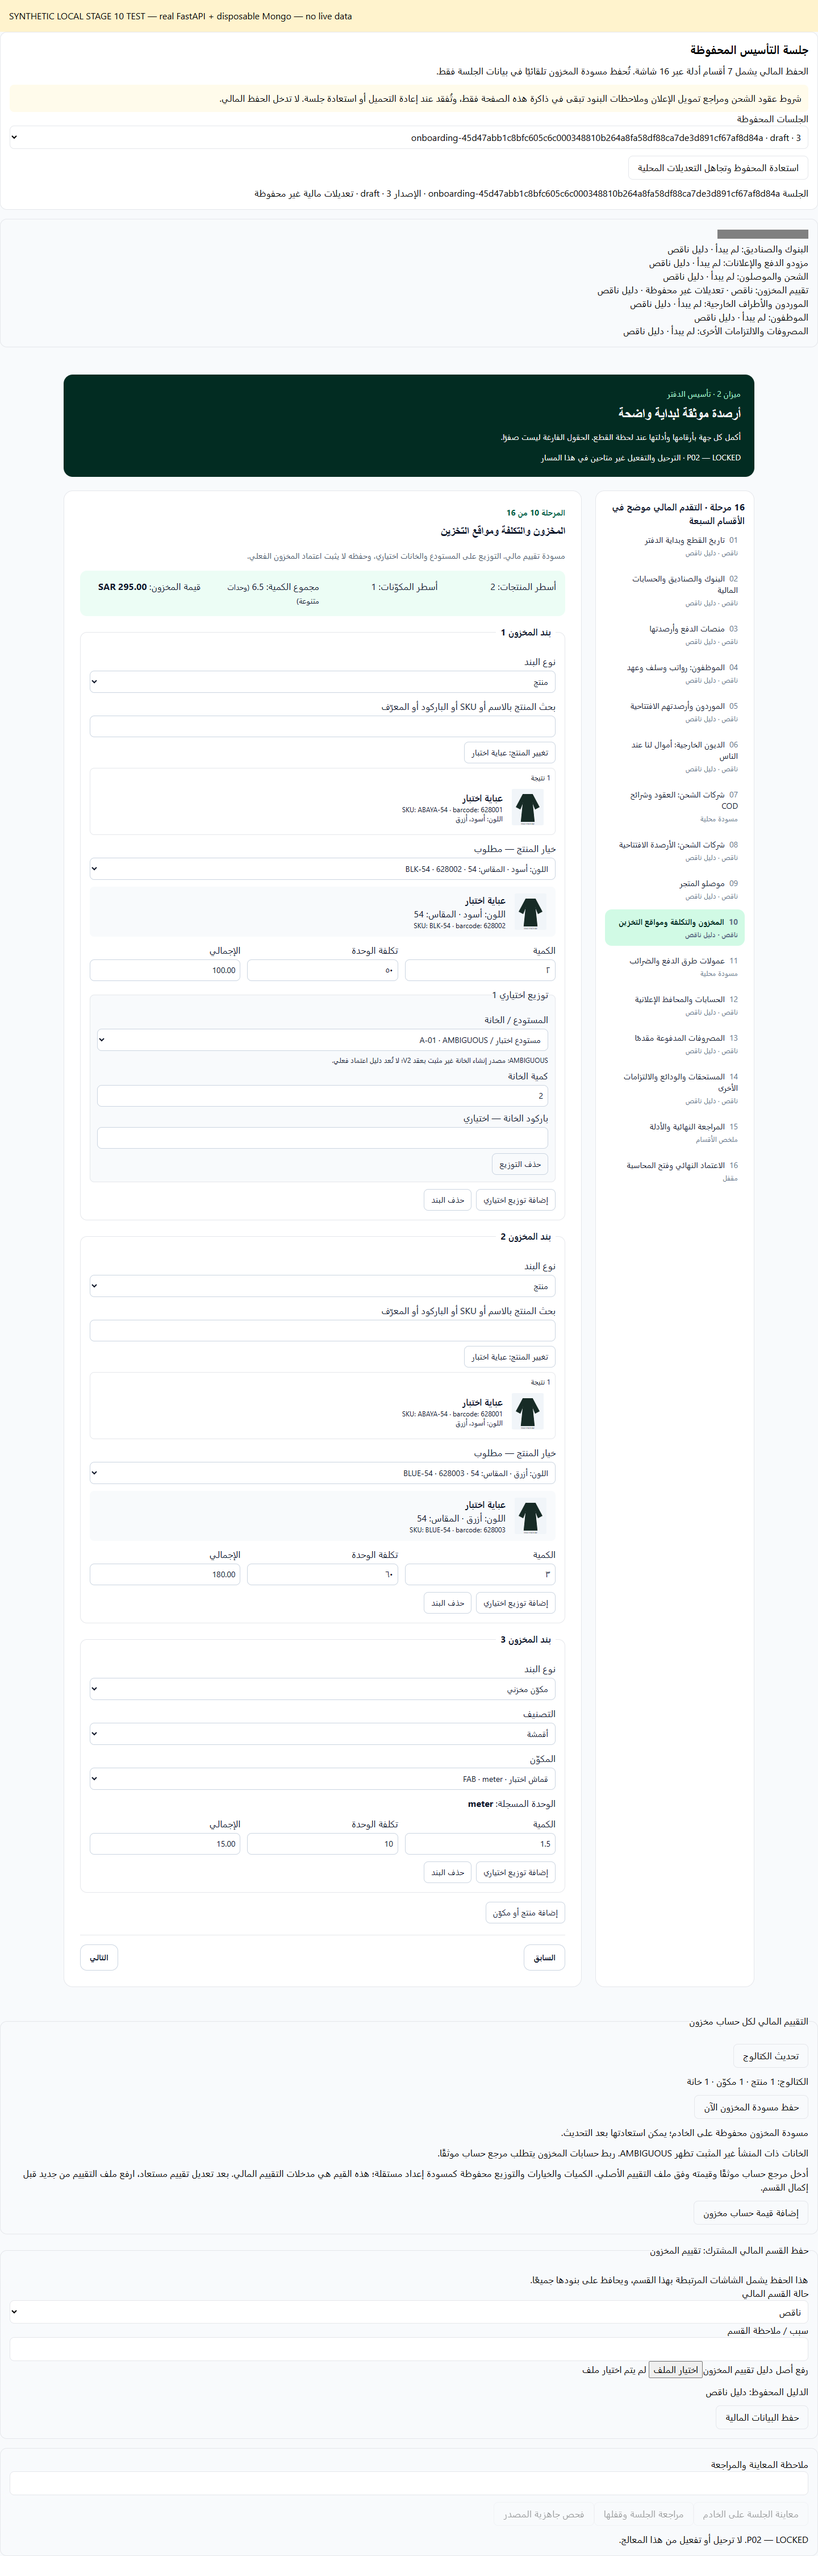
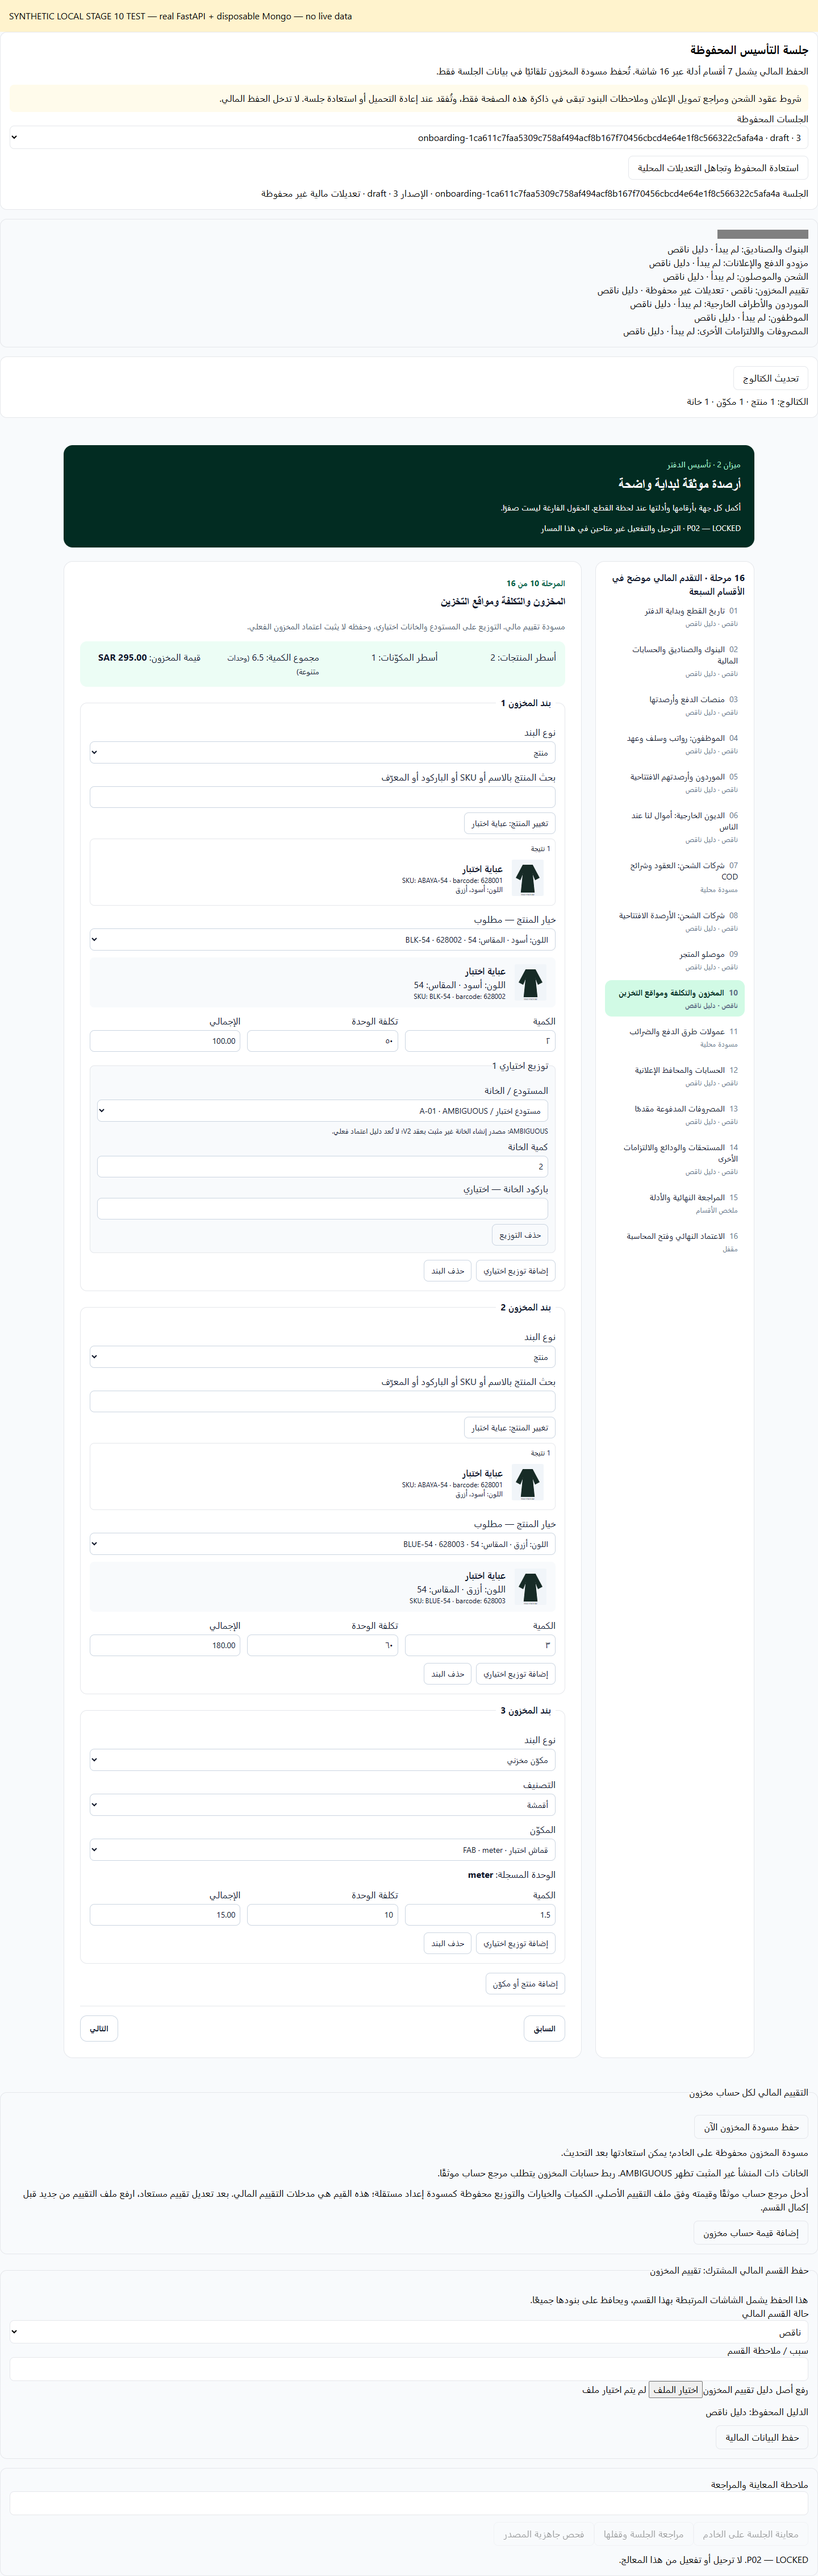
fix(onboarding): bind inventory autosaves to their originating session

diff --git a/frontend/src/pages/accounting/onboarding/AccountingOnboarding.jsx b/frontend/src/pages/accounting/onboarding/AccountingOnboarding.jsx
@@ -32,6 +32,7 @@ export default function AccountingOnboarding({ accountingPermissions = [], trans
     const inFlight = useRef(false);
     const [catalogState, setCatalogState] = useState("idle");
     const [draftMessage, setDraftMessage] = useState("");
+    const [draftWriting, setDraftWriting] = useState(false);
     const draftLatest = useRef(null), draftSaved = useRef(""), draftSaving = useRef(null);
     const restoreAttempt = useRef(false);
     const canView = accountingPermissions.includes("accounting.opening_balances.view");
@@ -62,26 +63,27 @@ export default function AccountingOnboarding({ accountingPermissions = [], trans
         return () => window.removeEventListener("beforeunload", warn);
     }, []);
     useEffect(() => {
-        if (!session || !canSave || locked || blocked || !draftLatest.current || JSON.stringify(draftLatest.current) === draftSaved.current) return undefined;
+        if (busy || !session || !canSave || locked || blocked || !draftLatest.current || JSON.stringify(draftLatest.current) === draftSaved.current) return undefined;
         const timer = setTimeout(() => { persistInventory().catch(() => {}); }, 400);
         return () => clearTimeout(timer);
-    }, [view, session, canSave, locked, blocked]);
+    }, [view, session, canSave, locked, blocked, busy]);
     async function persistInventory() {
         if (draftSaving.current) return draftSaving.current;
         if (!canSave || locked || blocked || !session) throw new Error("onboarding_session_locked");
+        setDraftWriting(true);
         draftSaving.current = (async () => {
             while (draftLatest.current && JSON.stringify(draftLatest.current) !== draftSaved.current) {
                 const snapshot = clone(draftLatest.current), serialized = JSON.stringify(snapshot);
                 setDraftMessage("جارٍ حفظ مسودة المخزون…");
                 try {
-                    const next = await controller.saveInventoryDraft({ draft: snapshot });
+                    const next = await controller.saveInventoryDraft({ draft: snapshot }, session.id);
                     draftSaved.current = serialized;
                     accept(next);
                     setDraftMessage("مسودة المخزون محفوظة على الخادم؛ يمكن استعادتها بعد التحديث.");
                 } catch (err) { setDraftMessage("لم تُحفظ آخر تعديلات المخزون. احتفظ بالصفحة وأعد المحاولة أو استعد الجلسة."); setError(api.onboardingErrorMessage(err)); throw err; }
             }
         })();
-        try { await draftSaving.current; } finally { draftSaving.current = null; }
+        try { await draftSaving.current; } finally { draftSaving.current = null; setDraftWriting(false); }
     }
     async function navigate(next) {
         if (stage === "inventory" && draftLatest.current && JSON.stringify(draftLatest.current) !== draftSaved.current) {
@@ -198,8 +200,8 @@ export default function AccountingOnboarding({ accountingPermissions = [], trans
             <p>الحفظ المالي يشمل 7 أقسام أدلة عبر 16 شاشة. تُحفظ مسودة المخزون تلقائيًا في بيانات الجلسة فقط.</p>
             <p className="rounded-lg bg-amber-50 p-3">شروط عقود الشحن ومراجع تمويل الإعلان وملاحظات البنود تبقى في ذاكرة هذه الصفحة فقط، وتُفقد عند إعادة التحميل أو استعادة جلسة. لا تدخل الحفظ المالي.</p>
             {!session && <><label>لحظة القطع للجلسة الجديدة — الرياض<input aria-label="لحظة القطع للجلسة الجديدة" type="datetime-local" className={input} value={cutover} onChange={e => setCutover(e.target.value)} /></label><button type="button" className={button} disabled={!context || !canSave || busy || pending || !cutover} onClick={() => run(async () => accept(await controller.create({ cutover_at: cutoverTime(cutover), cutover_timezone: "Asia/Riyadh" }), true))}>إنشاء جلسة</button></>}
-            <label>الجلسات المحفوظة<select aria-label="الجلسات المحفوظة" className={input} value={selected} disabled={busy} onChange={e => setSelected(e.target.value)}><option value="">اختر جلسة</option>{sessions.map(s => <option key={s.id} value={s.id}>{s.id} · {s.status} · {s.version}</option>)}</select></label>
-            <button type="button" className={button} disabled={!context || !selected || busy} onClick={() => run(async () => accept(await controller.load(selected), true))}>استعادة المحفوظ وتجاهل التعديلات المحلية</button>
+            <label>الجلسات المحفوظة<select aria-label="الجلسات المحفوظة" className={input} value={selected} disabled={busy || draftWriting} onChange={e => setSelected(e.target.value)}><option value="">اختر جلسة</option>{sessions.map(s => <option key={s.id} value={s.id}>{s.id} · {s.status} · {s.version}</option>)}</select></label>
+            <button type="button" className={button} disabled={!context || !selected || busy || draftWriting} onClick={() => run(async () => accept(await controller.load(selected), true))}>استعادة المحفوظ وتجاهل التعديلات المحلية</button>
             {pending && !controller.needsReload() && <button className={button} disabled={busy} onClick={() => run(async () => { accept(await controller.retry(), !session); setMessage("استُعيد رد الطلب الأصلي؛ تحقق من المحفوظ قبل متابعة التحرير."); })}>إعادة إرسال الطلب نفسه</button>}
             {controller.needsReload() && <p role="alert">يلزم استعادة الجلسة قبل حفظ جديد. التعديلات الحالية لم تُكتب فوق نسخة الخادم.</p>}
             {session && <p role="status">الجلسة <bdi className="break-all">{session.id}</bdi> · الإصدار {session.version} · {locked ? "مراجعة ومقفلة" : session.status} · {dirty.length ? "تعديلات مالية غير محفوظة" : "النسخة المالية محفوظة"}</p>}
@@ -208,15 +210,17 @@ export default function AccountingOnboarding({ accountingPermissions = [], trans
         {message && <p role="status">{message}</p>}
         {session && context && <>
             <section aria-label="تقدم الأقسام المالية" className="rounded-xl border p-4"><progress max="7" value={FINANCIAL_SECTIONS.filter(id => ["complete", "not_applicable"].includes(session.sections[id]?.status)).length} />{FINANCIAL_SECTIONS.map(id => <p key={id}>{LABELS[id]}: {STATES[session.sections[id]?.status] || STATES.not_started}{dirty.includes(id) ? " · تعديلات غير محفوظة" : ""}{!session.sections[id]?.evidence_file_id ? " · دليل ناقص" : ""}</p>)}</section>
+            {stage === "inventory" && <section aria-label="حالة كتالوج المخزون" className="space-y-2 rounded-xl border bg-white p-4">
+                {catalogState === "loading" && <p role="status">جارٍ تحميل كتالوج V2…</p>}
+                {catalogState === "error" && <p role="alert">تعذر تحميل الكتالوج. بيانات المسودة محفوظة؛ أعد المحاولة.</p>}
+                <button type="button" className={button} disabled={catalogState === "loading"} onClick={refreshCatalog}>{catalogState === "error" ? "إعادة محاولة تحميل الكتالوج" : "تحديث الكتالوج"}</button>
+                {catalogState === "ready" && <p role="status">الكتالوج: {catalog.products?.length || 0} منتج · {catalog.components?.length || 0} مكوّن · {catalog.locations?.length || 0} خانة</p>}
+            </section>}
             <div className="min-w-0">
                 <OnboardingWizardView financialBinding busy={busy} readOnly={Boolean(locked || !canSave || blocked)} value={view} onChange={change} activeStage={stage} onStageChange={navigate} context={{ ...context, inventory: catalog }} onSaveSection={save} onCreateExternalPerson={createPerson} onEntityCreated={person => setContext(current => ({ ...current, entities: { ...current.entities, external_persons: [...current.entities.external_persons, { ...person, name: person.name || person.label }] } }))} />
             </div>
             {stage === "inventory" && <fieldset disabled={busy || locked || !canSave || blocked} className="space-y-3 rounded-xl border p-4">
                 <legend>التقييم المالي لكل حساب مخزون</legend>
-                {catalogState === "loading" && <p role="status">جارٍ تحميل كتالوج V2…</p>}
-                {catalogState === "error" && <p role="alert">تعذر تحميل الكتالوج. بيانات المسودة محفوظة؛ أعد المحاولة.</p>}
-                <button type="button" className={button} disabled={catalogState === "loading"} onClick={refreshCatalog}>{catalogState === "error" ? "إعادة محاولة تحميل الكتالوج" : "تحديث الكتالوج"}</button>
-                {catalogState === "ready" && <p role="status">الكتالوج: {catalog.products?.length || 0} منتج · {catalog.components?.length || 0} مكوّن · {catalog.locations?.length || 0} خانة</p>}
                 <button type="button" className={button} onClick={() => persistInventory().catch(() => {})}>حفظ مسودة المخزون الآن</button>
                 {draftMessage && <p role="status">{draftMessage}</p>}
                 {catalog.warnings?.length > 0 && <p role="status">الخانات ذات المنشأ غير المثبت تظهر AMBIGUOUS. ربط حسابات المخزون يتطلب مرجع حساب موثقًا.</p>}

diff --git a/frontend/src/pages/accounting/onboarding/AccountingOnboarding.test.jsx b/frontend/src/pages/accounting/onboarding/AccountingOnboarding.test.jsx
@@ -189,3 +189,24 @@ test("incomplete distribution is retained as draft but cannot complete financial
     expect(b.peek().inventory_draft.rows[0].allocations).toHaveLength(1); expect(b.transport.saveOnboardingSection).not.toHaveBeenCalled();
     expect(node.textContent).toContain("يلزم معالجة نواقص البنود");
 });
+
+test("session switching is locked until the in-flight Stage 10 snapshot finishes", async () => {
+    const b = backend(); let release; const save = b.transport.saveOnboardingInventoryDraft.getMockImplementation();
+    b.transport.saveOnboardingInventoryDraft.mockImplementation((...args) => new Promise(resolve => { release = async () => resolve(await save(...args)); }));
+    await render(b.transport); await resume(); await stage(9); await click("إضافة منتج أو مكوّن");
+    // Start without awaiting settlement, then verify that the session cannot change underneath its queued save.
+    act(() => [...node.querySelectorAll("button")].find(b => b.textContent === "حفظ مسودة المخزون الآن").click());
+    await act(async () => { await Promise.resolve(); });
+    expect(field("الجلسات المحفوظة").disabled).toBe(true);
+    expect([...node.querySelectorAll("button")].find(b => b.textContent === "استعادة المحفوظ وتجاهل التعديلات المحلية").disabled).toBe(true);
+    await act(async () => release()); expect(field("الجلسات المحفوظة").disabled).toBe(false);
+});
+
+test("restoring during the autosave debounce cancels the old session draft", async () => {
+    const b = backend(); await render(b.transport); await resume(); await stage(9); await click("إضافة منتج أو مكوّن");
+    let release; b.transport.getOnboardingSession.mockImplementationOnce(() => new Promise(resolve => { release = resolve; }));
+    act(() => [...node.querySelectorAll("button")].find(b => b.textContent === "استعادة المحفوظ وتجاهل التعديلات المحلية").click());
+    await act(async () => { await new Promise(resolve => setTimeout(resolve, 450)); });
+    expect(b.transport.saveOnboardingInventoryDraft).not.toHaveBeenCalled();
+    await act(async () => release(b.peek())); expect(field("الكمية 1")).toBeNull();
+});

diff --git a/frontend/src/services/onboardingSessionController.js b/frontend/src/services/onboardingSessionController.js
@@ -39,13 +39,14 @@ export function createOnboardingSessionController(transport = service, makeKey =
             throw error;
         }
     }
-    function mutate(method, args, payload) {
+    function mutate(method, args, payload, expectedSessionId) {
         // Capture user intent now, before earlier queued requests can settle.
         const captured = copy(payload);
         return enqueue(async () => {
             if (pending) throw new Error("onboarding_pending_request_requires_retry_or_reload");
             if (conflict) throw new Error("onboarding_reload_required");
             if (!current) throw new Error("onboarding_session_required");
+            if (expectedSessionId && current.id !== expectedSessionId) throw new Error("onboarding_reload_required");
             if (["reviewed", "handed_off"].includes(current.status) || current.opening_draft) throw new Error("onboarding_session_locked");
             const request = { method, expectedVersion: current.version, args: [current.id, ...args, { ...captured, version: current.version, idempotency_key: makeKey() }] };
             pending = request;
@@ -66,7 +67,7 @@ export function createOnboardingSessionController(transport = service, makeKey =
             pending = { method: "createOnboardingSession", args: [{ cutover_at, cutover_timezone, idempotency_key: makeKey() }] };
             return execute(pending);
         }),
-        saveInventoryDraft: payload => mutate("saveOnboardingInventoryDraft", [], payload),
+        saveInventoryDraft: (payload, sessionId = current?.id) => mutate("saveOnboardingInventoryDraft", [], payload, sessionId),
         saveCutover: payload => mutate("saveOnboardingCutover", [], payload),
         saveSection: (sectionId, payload) => mutate("saveOnboardingSection", [sectionId], payload),
         preview: note => mutate("previewOnboardingSession", [], { note }),

diff --git a/frontend/src/services/onboardingSessionController.test.js b/frontend/src/services/onboardingSessionController.test.js
@@ -110,3 +110,14 @@ test("advanced replay requires explicit load before any new section replacement"
     await controller.saveSection("providers", { reason: "restored" });
     expect(transport.saveOnboardingSection.mock.calls[2][2].version).toBe(4);
 });
+
+test("inventory autosave cannot cross a queued session load", async () => {
+    let release;
+    const transport = { getOnboardingSession: jest.fn().mockResolvedValueOnce(session(1)).mockImplementationOnce(() => new Promise(resolve => { release = resolve; })), saveOnboardingInventoryDraft: jest.fn() };
+    const controller = make(transport); await controller.load("s");
+    const loading = controller.load("other");
+    const saving = controller.saveInventoryDraft({ draft: { rows: [{ product_v2_id: "p" }] } }, "s");
+    const rejected = expect(saving).rejects.toThrow("onboarding_reload_required");
+    await Promise.resolve(); release({ ...session(1), id: "other" }); await loading; await rejected;
+    expect(transport.saveOnboardingInventoryDraft).not.toHaveBeenCalled(); expect(controller.snapshot().id).toBe("other");
+});

diff --git a/docs/operations/MZ2-TRACK-D-20260930/README.md b/docs/operations/MZ2-TRACK-D-20260930/README.md
@@ -19,7 +19,7 @@ Quantity and unit cost produce a read-only decimal half-up total. Summary shows 
 
 `PUT /api/accounting-module/onboarding/sessions/{id}/inventory-draft` saves bounded typed rows and Stage 10 financial-line entry text only in `mz2_onboarding_sessions`. It shares the existing CAS version, idempotency, fresh permission/owner and locked-session rules. Changes invalidate inventory completion and prior preview. No ledger, physical approval, opening-post or activation path is called.
 
-The UI debounces metadata saves, flushes before Next/Previous, retries uncertain requests with their original key/payload, preserves edits on conflict and warns before unloading unsaved edits. Refresh uses the session ID and stage in the URL to restore server metadata; localStorage is not a source of truth. A network failure is shown as unsaved, never claimed as persisted.
+The UI debounces metadata saves, flushes before Next/Previous, retries uncertain requests with their original key/payload, binds queued saves to their originating session, cancels debounce on restore, locks session switching during save, preserves edits on conflict and warns before unloading unsaved edits. Refresh uses the session ID and stage in the URL to restore server metadata; localStorage is not a source of truth. A network failure is shown as unsaved, never claimed as persisted.
 
 ## Warehouse provenance
 
@@ -38,7 +38,7 @@ The UI debounces metadata saves, flushes before Next/Previous, retries uncertain
 | O no financial write | Backend collection boundary test + browser mutation allowlist/non-session count proof |
 
 - Backend: 60 passed, 0 skipped, disposable local replica set and standalone Mongo. See backend-results.xml.
-- Frontend: 90 passed / 10 suites. See frontend-results.json.
+- Frontend: 93 passed / 10 suites. See frontend-results.json.
 - Browser: PASS, actual UI -> FastAPI -> isolated UUID-named Mongo; desktop 1440px and mobile 390px, no horizontal overflow or page errors. See browser-results.json and screenshots. Images/data are explicitly synthetic fixtures.
 - Source build: `node node_modules/vite/bin/vite.js build` passed; existing CSS import-order, chunk-size and ineffective dynamic-import warnings remain outside this scope. Local Node 24.19.0 is outside the repository's declared production Node range; CI uses its governed Node version.
 - CI: existing source-integration workflow extended with Stage 10 API/browser tests and evidence artifacts. Exact remote check status belongs to the final PR/Issue record.
